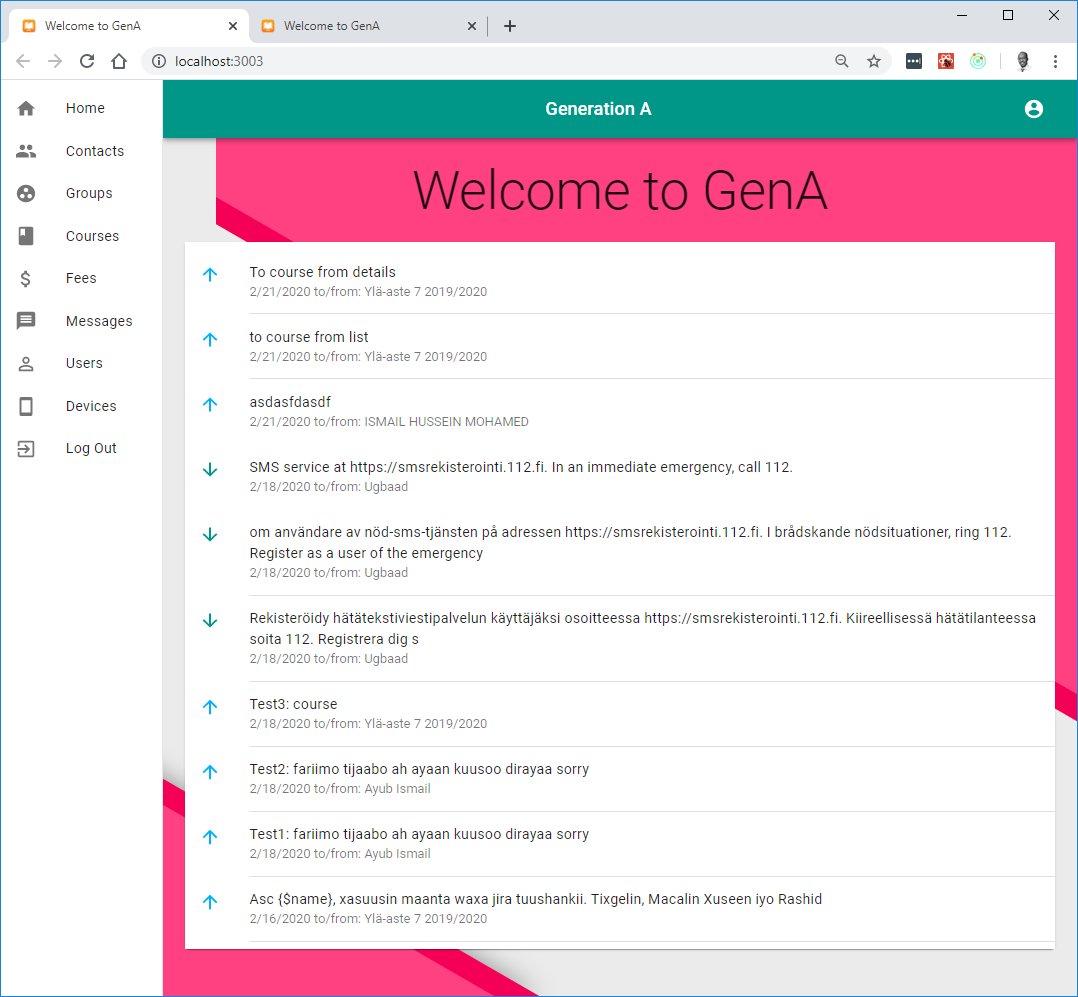
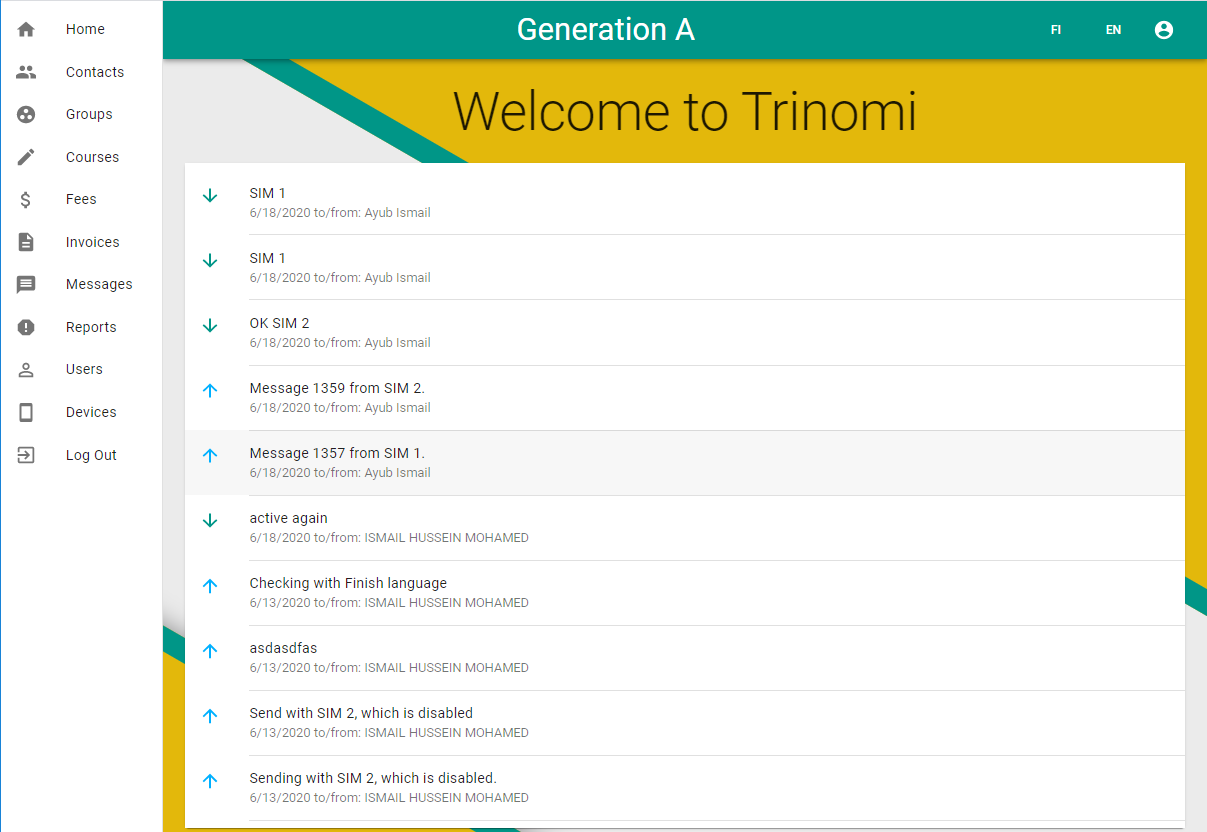
Trinomi related changes

diff --git a/README.md b/README.md
@@ -1,23 +1,22 @@
-# Generation A (GenA)
+# Trinomi
 
 ## What is it?
 
+![Trinomi](images/icon-96x96.png "Trinomi")
 
-![GenA](images/icon-96x96.png "Generation A")
-
-GenA is a simple CRM application containing the most fundamental features only. It's meant for **small** to **medium** **schools**, **clubs**, **teaching centers**, **tuition centers** etc.
+Trinomi is a simple CRM (contact management system) application containing the most fundamental features only. It's meant for **organizations**.
 
 It's built to be simple and mobile friendly by design.
 
-The fees management module can be used separately by any one who gets regular payments from customers/contacts and wants to track those payments.
+The fees and invoices module can be used separately by any one who gets regular payments from customers/contacts and wants to track those payments. This modules allows you to easily create invoices and track payments.
 
 Desktop and web version.
 
-![GenWeb](images/desktop.png "Generation A Web")
+![TrinoWeb](images/desktop.png "Trinomi for Web")
 
 Mobile version.
 
-![GenWeb](images/mobile.jpeg "Generation A Mobile")
+![TrinoMobile](images/mobile.jpeg "Trinomi for Mobile")
 
 
 ## Contacts
@@ -61,7 +60,7 @@ Creating calendar event
 
 ## Courses
 
-Courses are very similar to groups.
+Courses are very similar to groups. This feature is included in [GenA](https://github.com/ismailhozza/gena), but not in Trinomi.
 
 ## Fees
 
@@ -77,16 +76,21 @@ Below the chart there is the target contacts of the fee.
 
 ![Fees](images/fees.gif "New fee")
 
-### Payments
+### Payments and Invoicing
 
-Fee payments can be created easily on the bottom of the fee details page.
-
+Fee payments can be created easily on the bottom of the fee details page. This is useful when you need to record payments, but not create actual invoices. If you need to create and send invoices use the invoices feature.
 
 ![NewPayment](images/new-payment.gif "New payment")
 
 Payments to multiple fees can be imported easily at one. The UI allows making corrections before actually importing the fees.
 
 ![ImportPayment](images/import-payment.gif "Import payments")
+
+#### Invoices
+
+Create a new invoice, add invoice lines, export as PDF and send to your contact/customer.
+
+![CreateInvoice](images/new-invoice.gif "New Invoice")
 
 ## Messages
 
